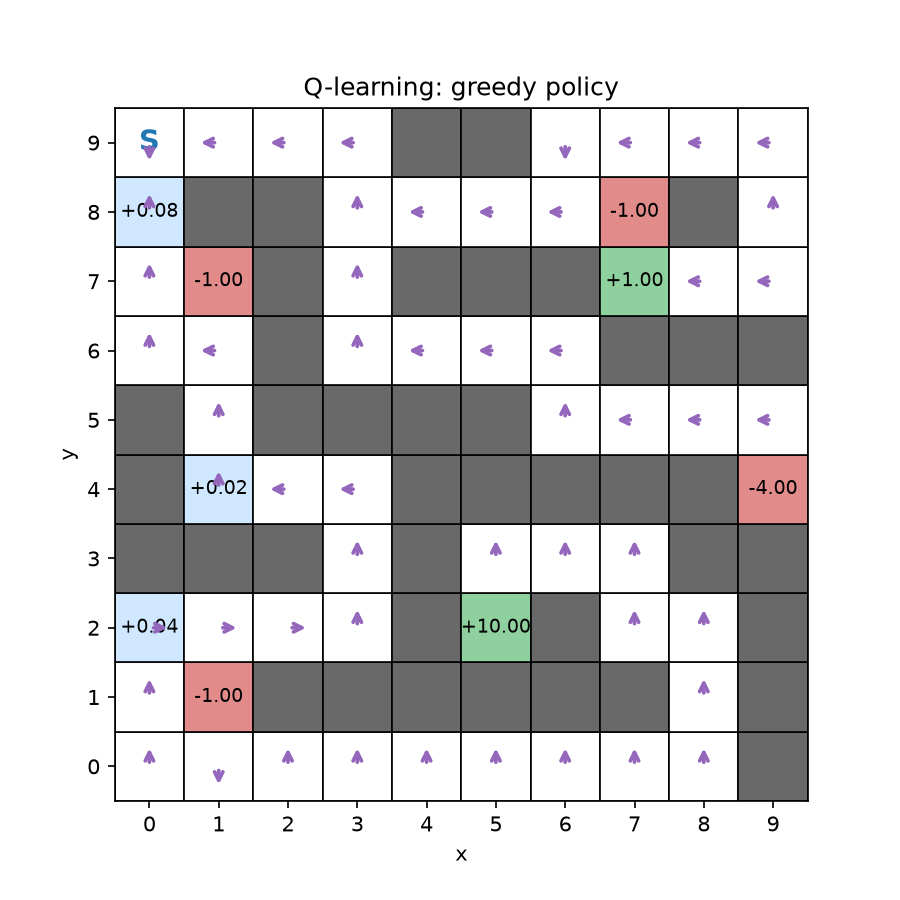
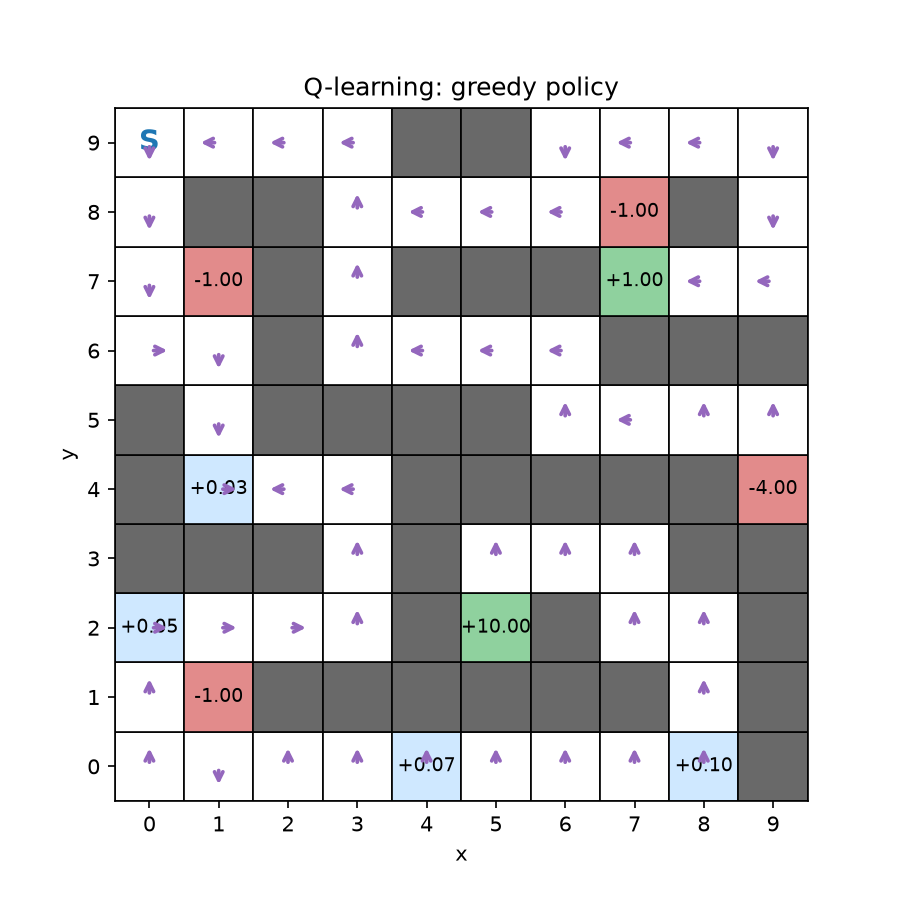
optimistic initialisation

diff --git a/gridworld/maze_gridworld.py b/gridworld/maze_gridworld.py
@@ -19,10 +19,10 @@ def make_maze_gridworld(seed: int | None = 0, render_mode: str | None = None) ->
     walls |= {(9, y) for y in (0, 1, 2, 3, 6)}
 
     shaping_rewards = {
-        (1,4):0.02,
-        (0,2):0.04,
-        (4,0):0.06,
-        (8,0):0.08,
+        (1,4):0.03,
+        (0,2):0.05,
+        (4,0):0.07,
+        (8,0):0.1,
     }
 
     config = GridWorldConfig(
